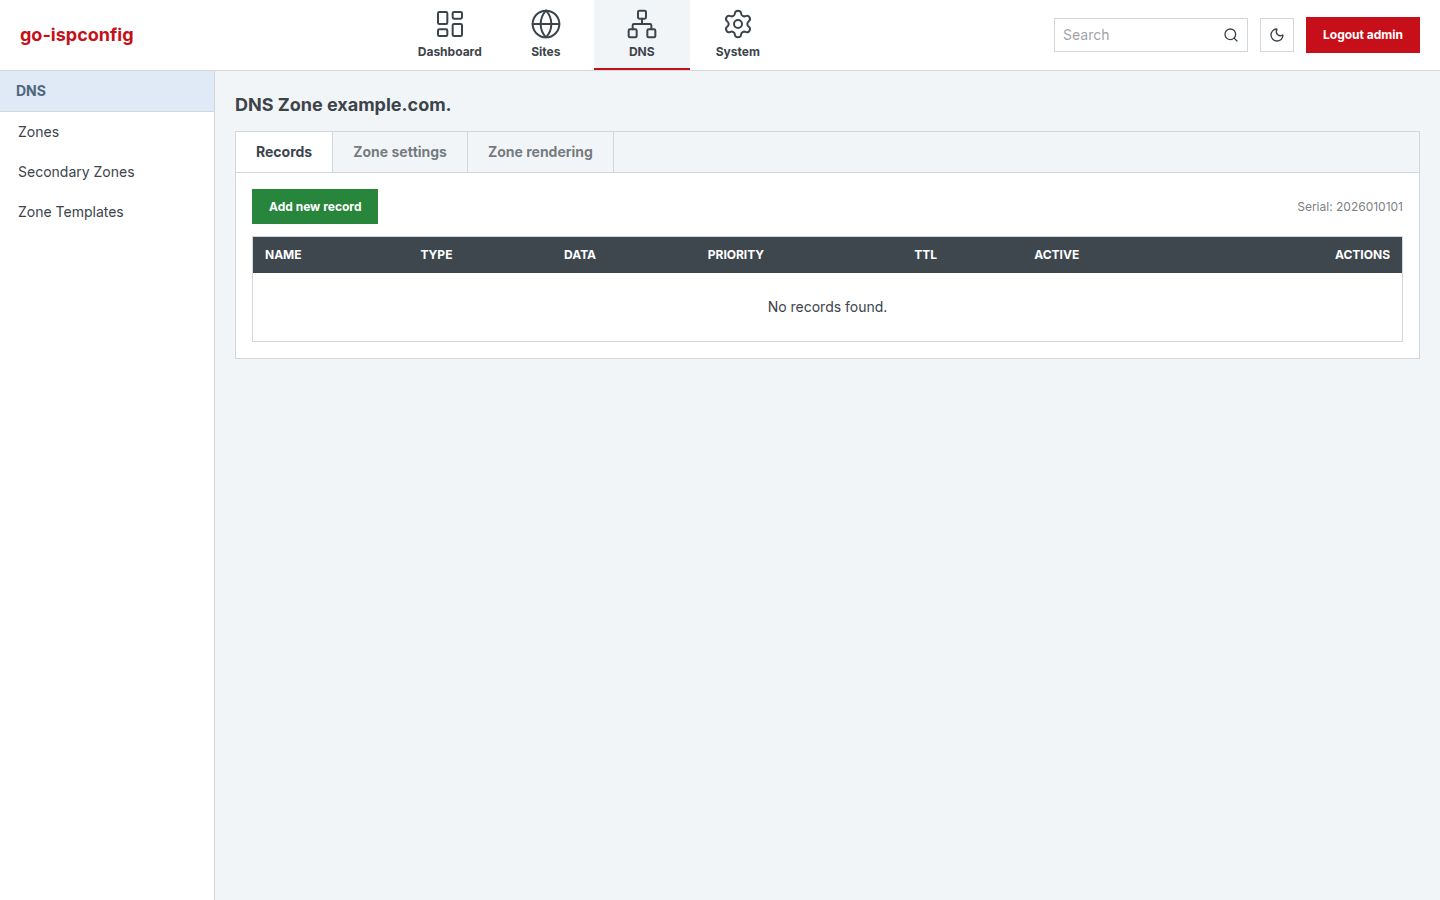
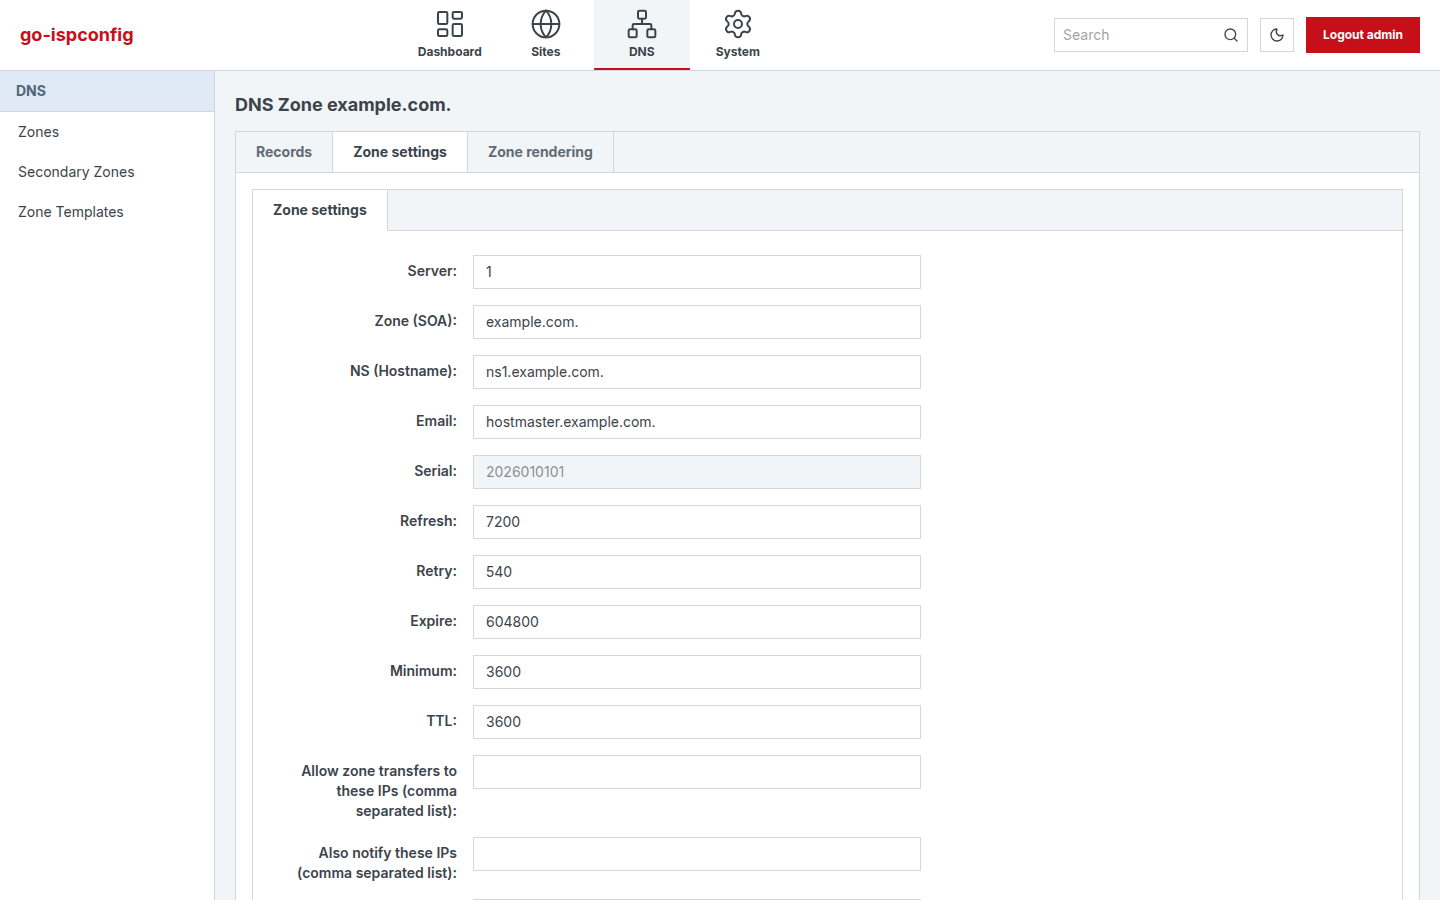
fix(theme): apply grok/opencode cross-review findings on E2E and CSS
E2E suite hardening (now 25 checks, rerun green on a fresh build):
- password piped JSON-encoded via eval --stdin — never in process args,
  quote/backslash safe (was interpolated into argv)
- the network log is no longer cleared after the login load, so the
  first-load assets are inside the same-origin check (the main 6.3
  hole); origin matching is regex-escaped and anchored (no
  origin-prefix spoof), URLs extracted structurally, plus a positive
  assert that vendored Inter served same-origin with 200
- deterministic light start (a fresh profile follows the OS scheme —
  caught as a real flake), poll-based waits replace fixed sleeps on
  row counts and tab readiness, filtered-row assert excludes the
  empty-state row and verifies the matched cell, Save asserts the PUT
  hit the API with 200, Cancel asserts no write happened, Previous
  asserts disabled on page 1, dark thead trait asserted after toggle,
  cleanup trap on exit, data-test selectors for save/cancel and
  href-based module nav; make e2e-theme target added
- TabbedForm save/cancel gained data-test hooks; ZoneForm outer tabs
  gained tablist/tab/aria-selected (parity with the inner form)
- style.css: base element defaults merged into one @layer base block
  including the height reset; the focus-visible rule documents why it
  stays unlayered
- screenshots: theme-04/05 recaptured showing the actual Zone settings
  tabbed form (the previous pair showed the Records grid — review
[…]

diff --git a/frontend/src/style.css b/frontend/src/style.css
@@ -84,17 +84,17 @@
   color-scheme: dark;
 }
 
-html,
-body,
-#app {
-  height: 100%;
-}
-
 /* Element defaults live in the base layer so utility classes always win
    (unlayered element rules would beat layered utilities in the cascade). */
 @layer base {
   :root {
     color-scheme: light;
+  }
+
+  html,
+  body,
+  #app {
+    height: 100%;
   }
 
   body {
@@ -106,6 +106,21 @@ body,
     background: var(--color-bg);
     -webkit-font-smoothing: antialiased;
   }
+
+  button,
+  input,
+  select,
+  textarea {
+    font-family: inherit;
+  }
+
+  a {
+    color: var(--color-link);
+    text-decoration: none;
+  }
+  a:hover {
+    text-decoration: underline;
+  }
 }
 
 /* radius 0 GLOBAL — no rounded corner may survive. */
@@ -116,17 +131,9 @@ body,
   border-radius: 0 !important;
 }
 
-@layer base {
-  button,
-  input,
-  select,
-  textarea {
-    font-family: inherit;
-  }
-}
-
 /* Visible AA keyboard focus for every interactive element (D5). The
-   link token passes 4.5:1 on bg/surface in both schemes. */
+   link token passes 4.5:1 on bg/surface in both schemes. Deliberately
+   unlayered: the focus ring must never lose to a utility class. */
 :where(a, button, input, select, textarea, summary, [tabindex]):focus-visible {
   outline: 2px solid var(--color-link);
   outline-offset: 1px;

diff --git a/frontend/src/views/dns/ZoneForm.vue b/frontend/src/views/dns/ZoneForm.vue
@@ -66,11 +66,13 @@ onMounted(loadZone)
     <UiAlert v-if="loadError" variant="danger" class="mb-3" :messages="[t(loadError)]" />
 
     <!-- Top-level tabs (Records / Zone settings / Zone rendering) -->
-    <div class="flex border border-border border-b-0 bg-bg">
+    <div role="tablist" class="flex border border-border border-b-0 bg-bg">
       <button
         v-for="tab in tabs"
         :key="tab.name"
         type="button"
+        role="tab"
+        :aria-selected="activeTab === tab.name"
         :data-test="`zone-tab-${tab.name}`"
         class="border-r border-border px-5 py-2.5 text-sm font-bold"
         :class="activeTab === tab.name ? 'bg-surface text-text' : 'text-text-muted hover:bg-info'"

diff --git a/frontend/src/components/TabbedForm.vue b/frontend/src/components/TabbedForm.vue
@@ -185,15 +185,13 @@ watch(
     <div class="flex justify-end gap-2 border-t border-border bg-bg px-4 py-3">
       <button
         type="button"
+        data-test="form-cancel"
         class="btn btn-default px-8"
         @click="emit('cancel')"
       >
         {{ t('form.cancel') }}
       </button>
-      <button
-        type="submit"
-        class="btn btn-success px-8"
-      >
+      <button type="submit" data-test="form-save" class="btn btn-success px-8">
         {{ t('form.save') }}
       </button>
     </div>
